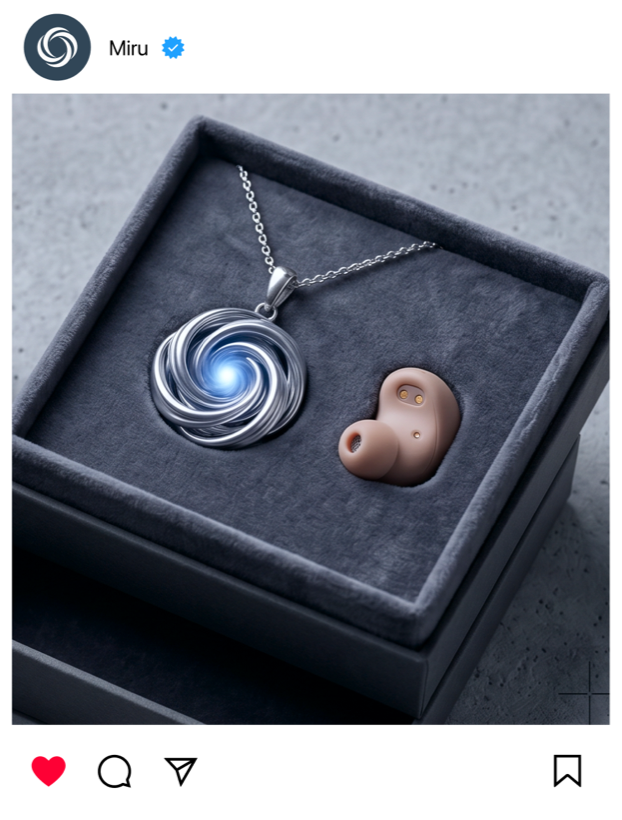
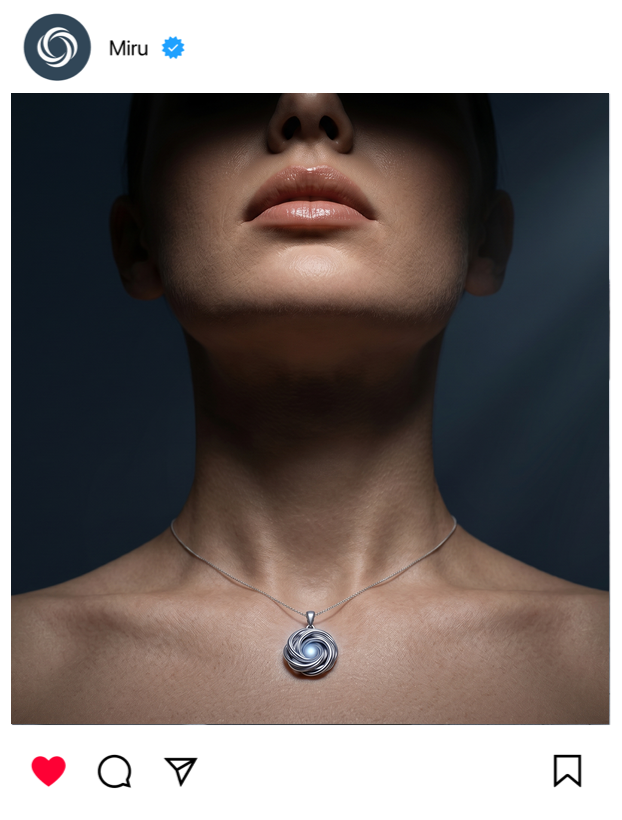
Miru: в Instagram-карточке (fan-c) заменил фото коробки на кадр модели (Figma 3492-30953)

diff --git a/case.js b/case.js
@@ -563,7 +563,7 @@
             '<img class="fan__frame" src="assets/miru-fan-frame.svg?v=1" alt="" aria-hidden="true" />' +
             '<img class="fan__card fan__card--a" src="assets/miru-fan-a.png?v=2" alt="Miru — пост в Instagram" loading="lazy" />' +
             '<img class="fan__card fan__card--b" src="assets/miru-fan-b.png?v=2" alt="Miru — пост в Instagram" loading="lazy" />' +
-            '<img class="fan__card fan__card--c" src="assets/miru-fan-c.png?v=2" alt="Miru — пост в Instagram" loading="lazy" />' +
+            '<img class="fan__card fan__card--c" src="assets/miru-fan-c.png?v=3" alt="Miru — пост в Instagram" loading="lazy" />' +
             "</div>";
         if (b.mirulogo)
           return '<div class="mlogo reveal" role="img" aria-label="MIRU — эмпатия как украшение">' +

diff --git a/case.html b/case.html
@@ -47,7 +47,7 @@
 
   <script src="https://cdn.jsdelivr.net/npm/lenis@1.1.14/dist/lenis.min.js"></script>
   <script src="projects.js?v=125"></script>
-  <script src="case.js?v=62"></script>
+  <script src="case.js?v=63"></script>
   <script src="script.js?v=23"></script>
 </body>
 </html>
